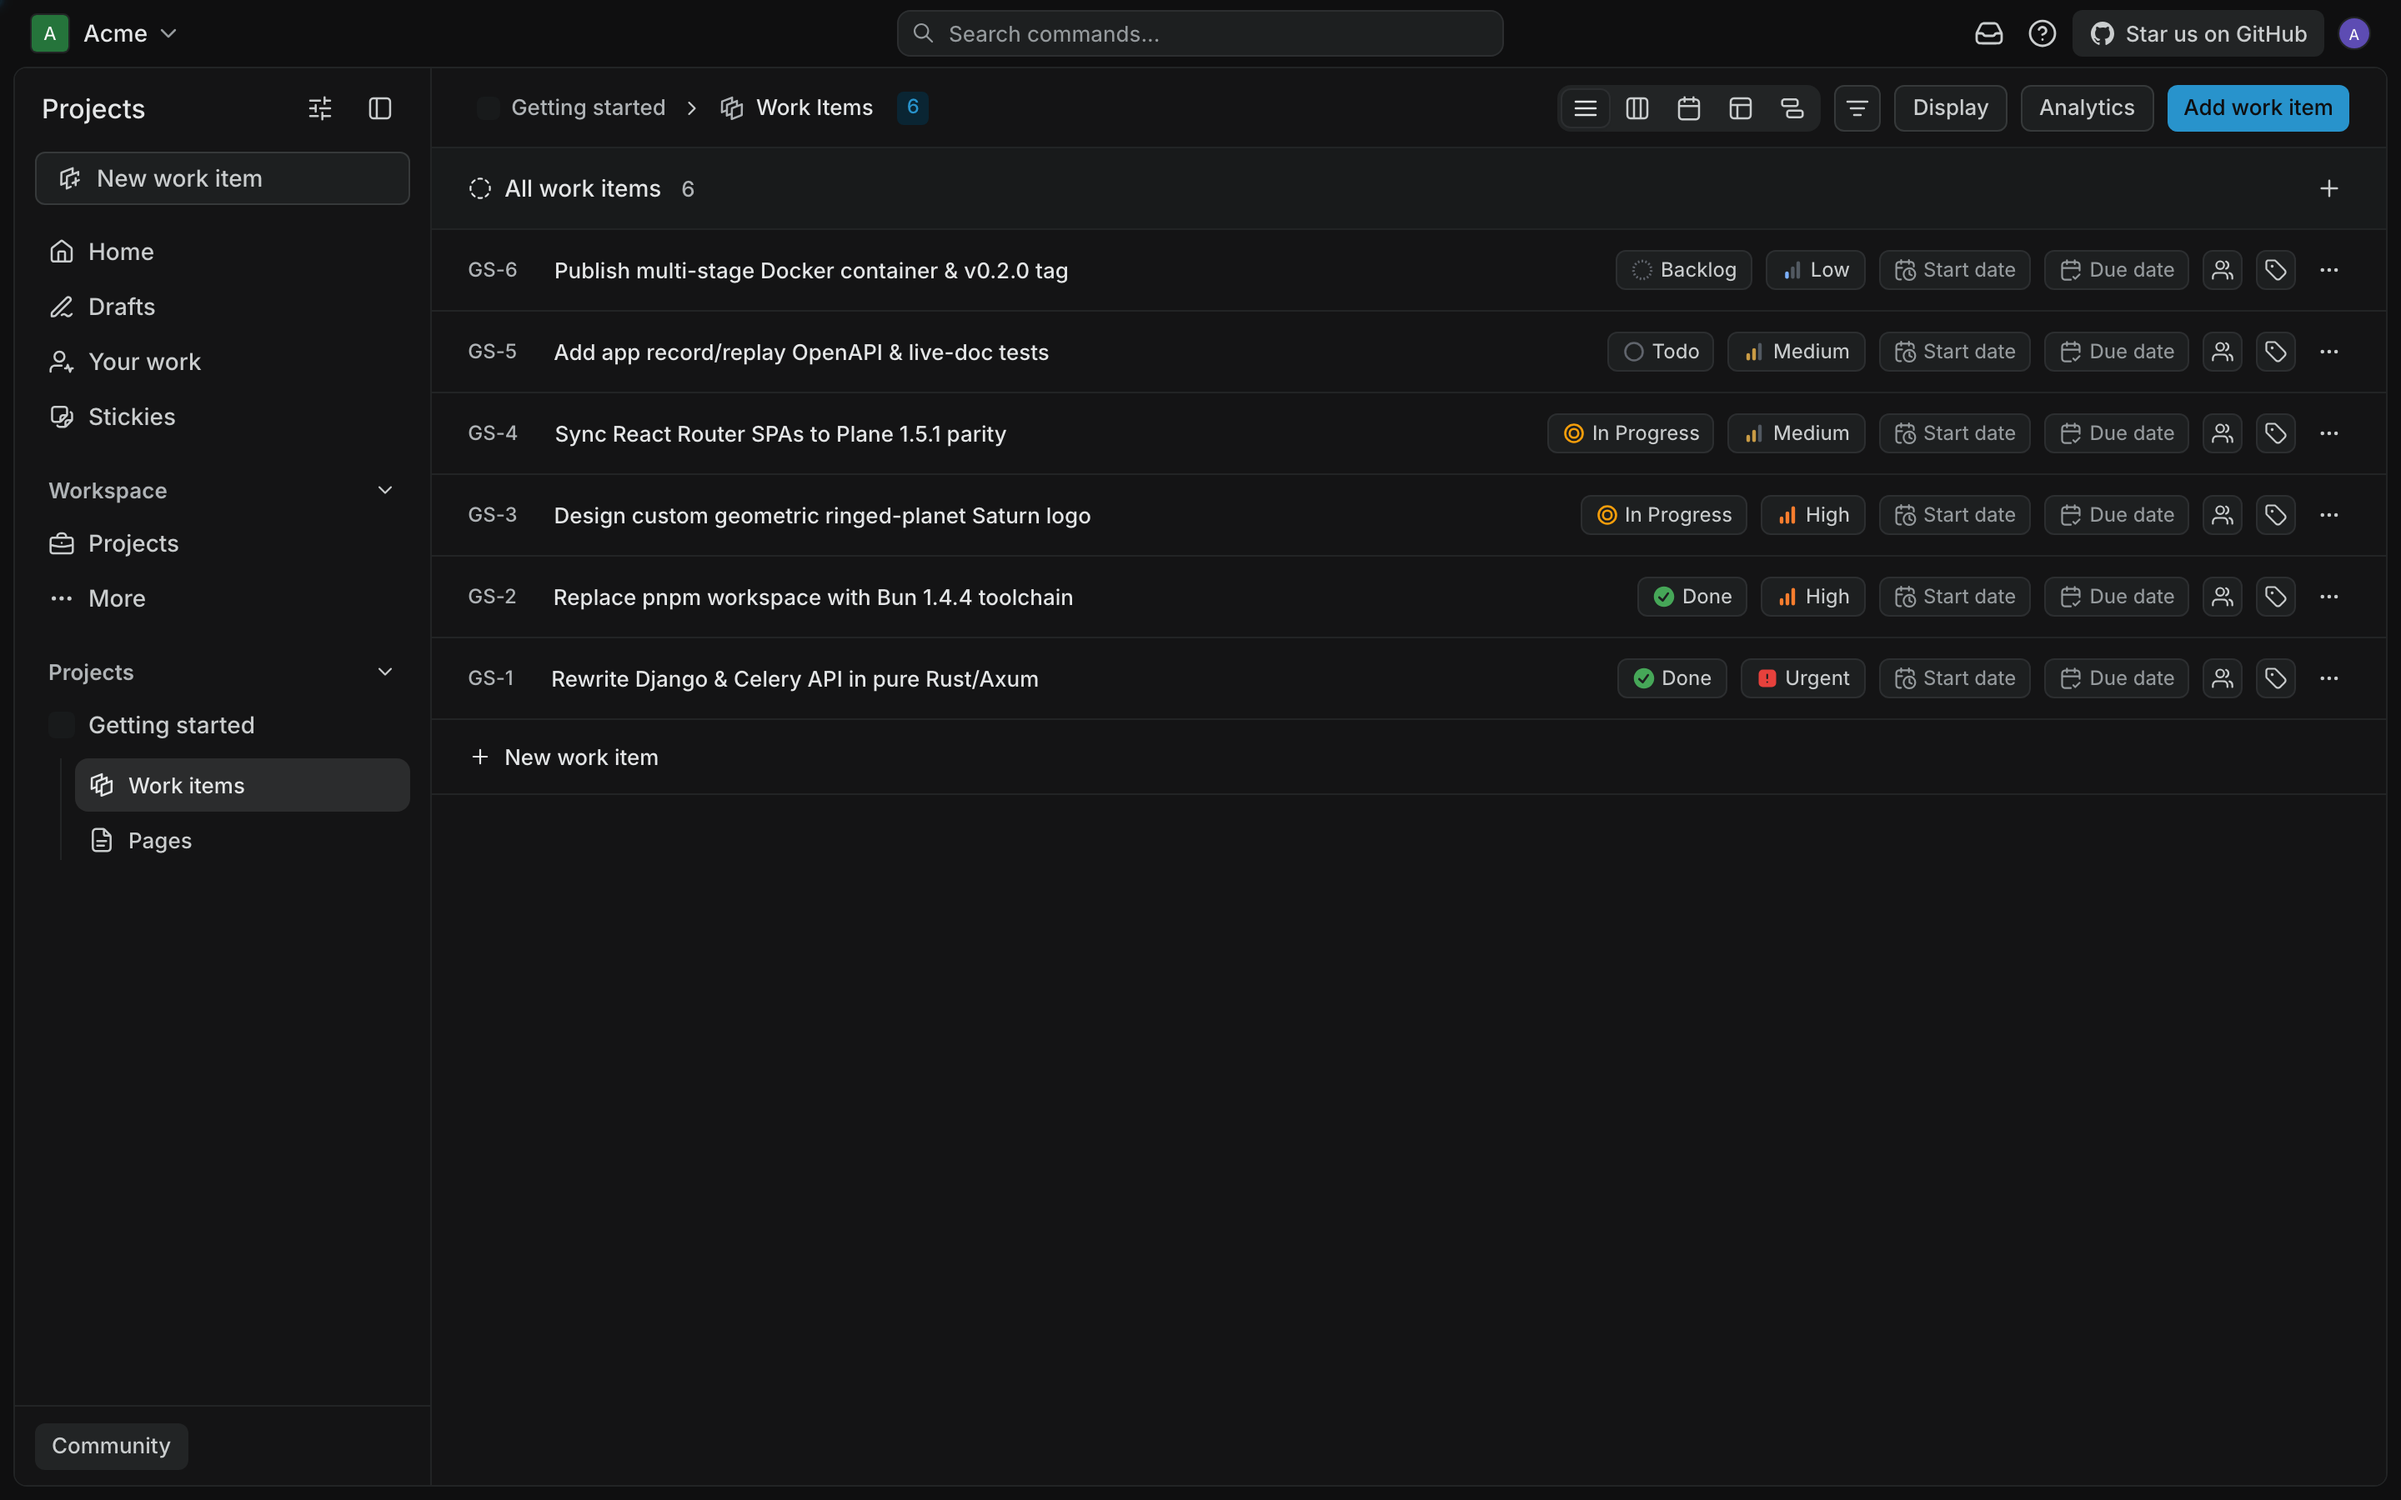
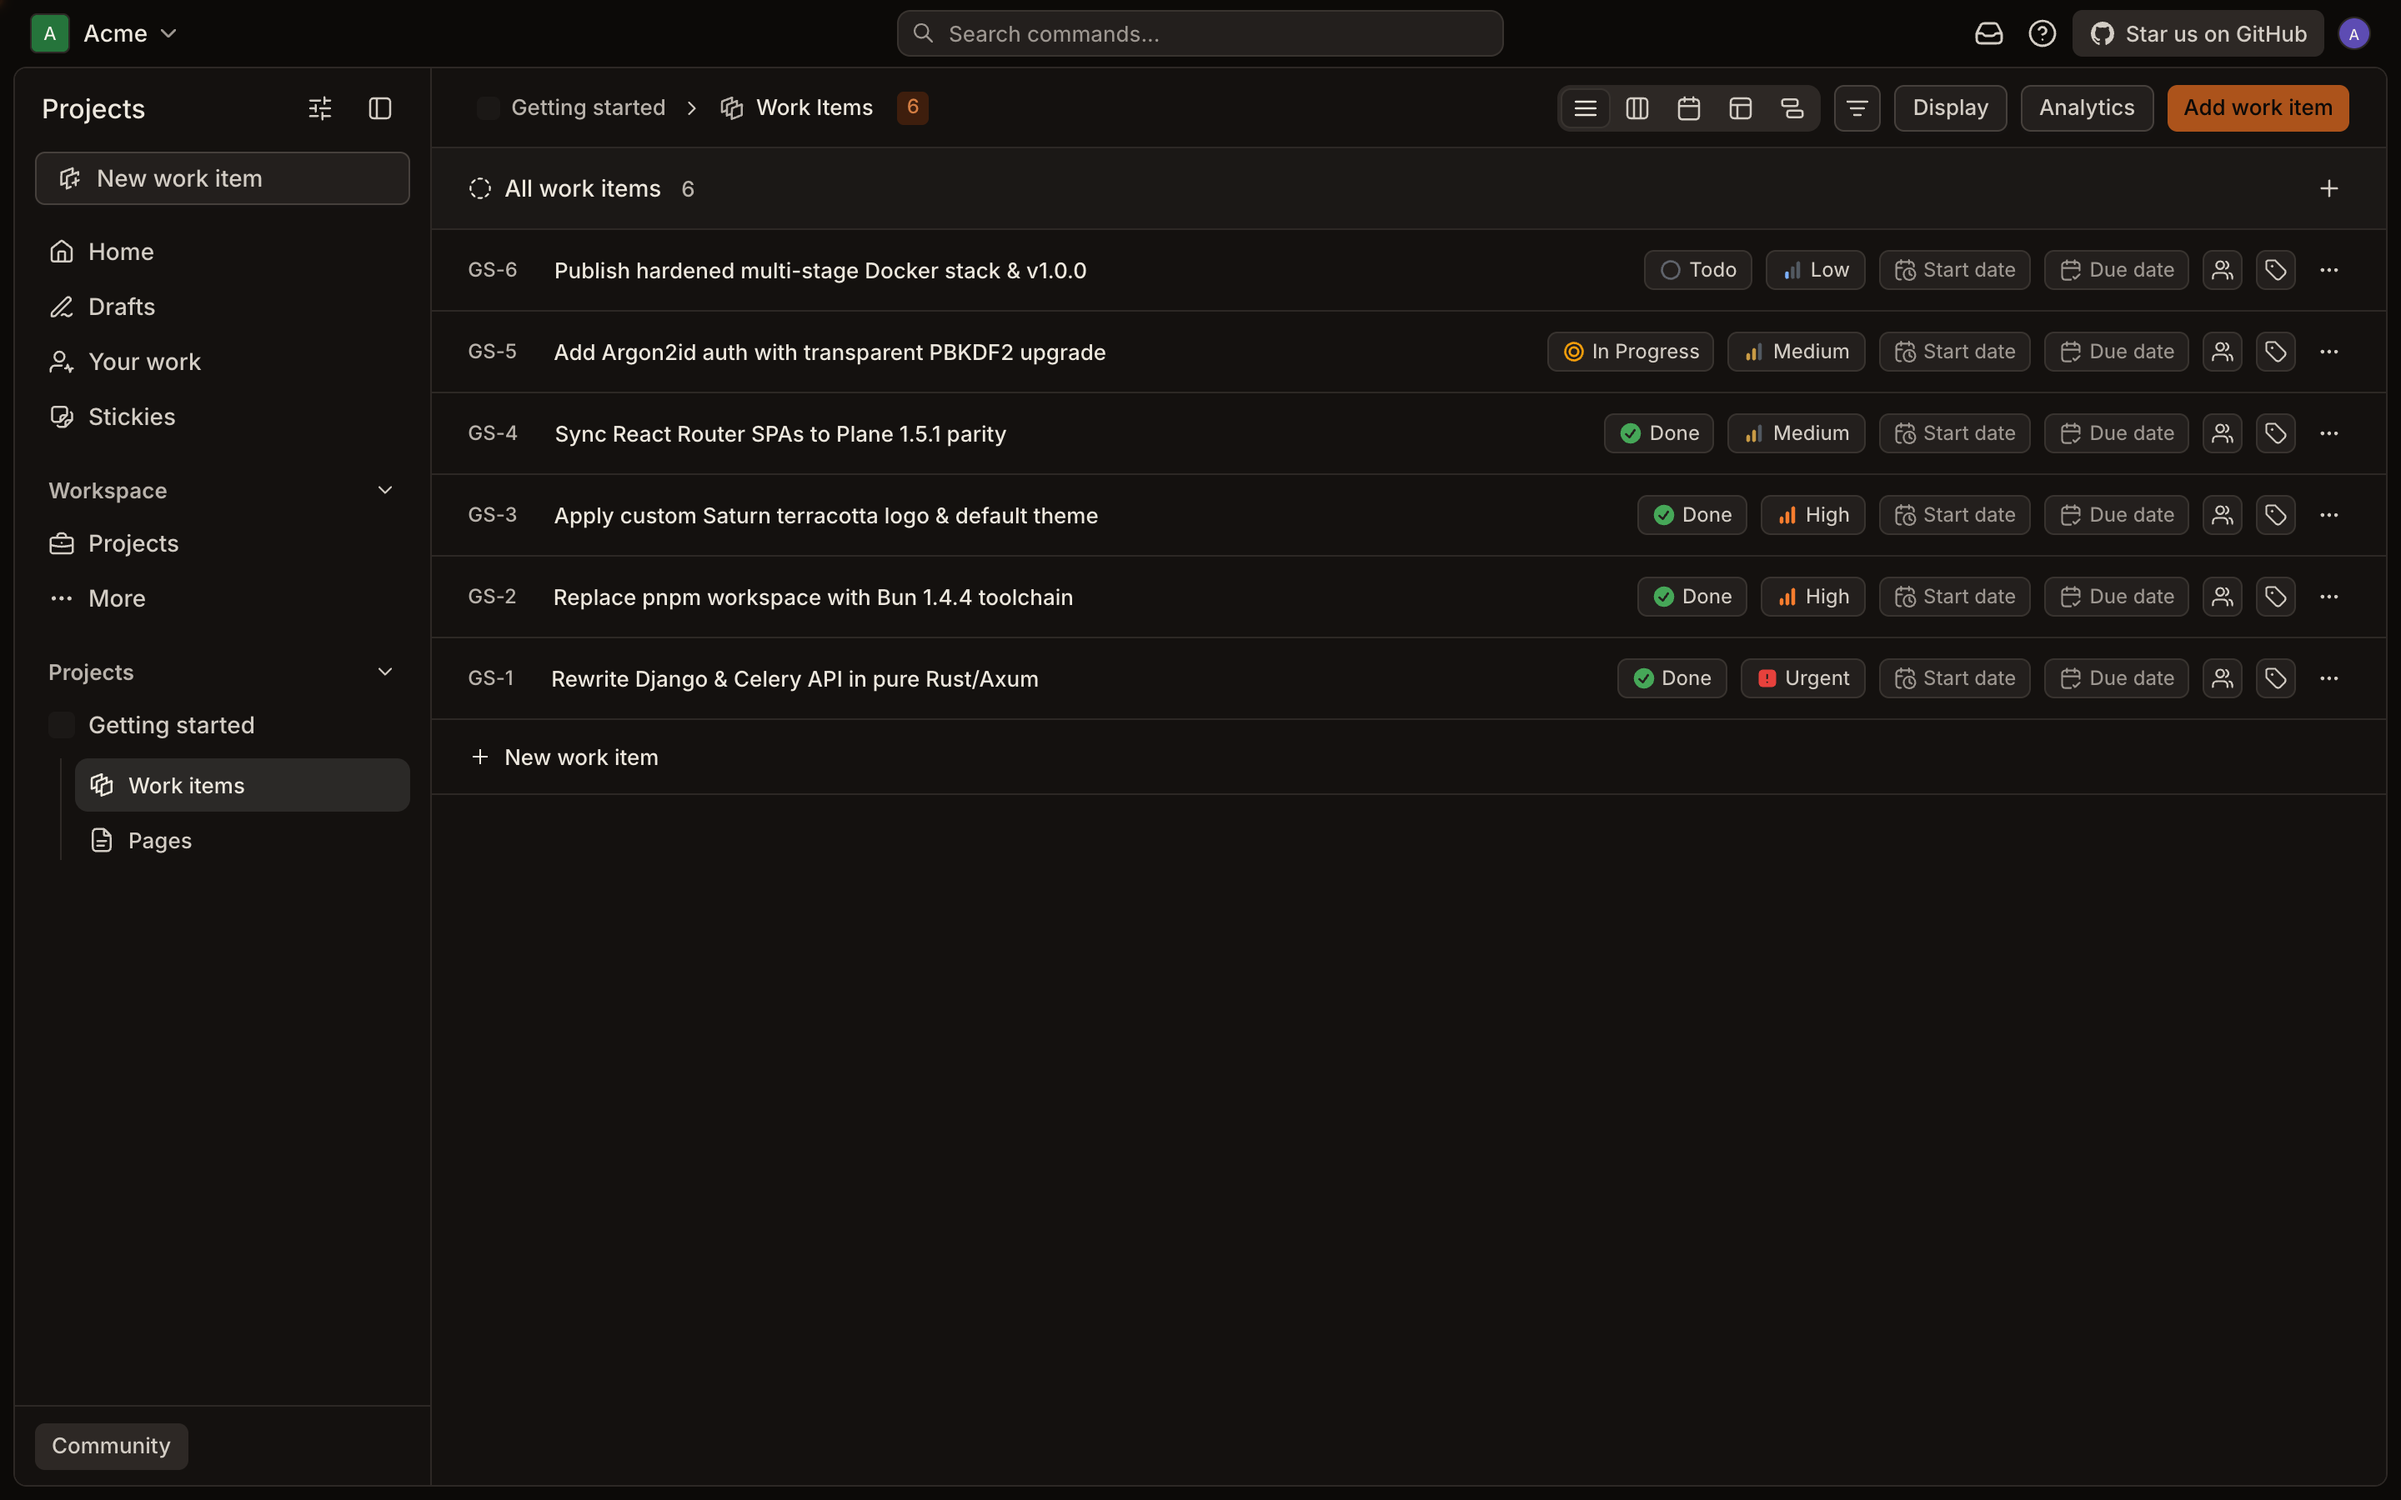
docs(readme): refresh screenshots, demo video, and brand palette

diff --git a/README.md b/README.md
@@ -13,14 +13,14 @@
 [![GitHub Stars](https://img.shields.io/github/stars/aphelion31/saturn?style=flat-square&logo=github)](https://github.com/aphelion31/saturn/stargazers)
 [![GitHub Release](https://img.shields.io/github/v/release/aphelion31/saturn?style=flat-square&logo=github)](https://github.com/aphelion31/saturn/releases/latest)
 [![CI](https://img.shields.io/github/actions/workflow/status/aphelion31/saturn/ci.yml?branch=develop&style=flat-square&logo=githubactions&logoColor=white)](https://github.com/aphelion31/saturn/actions/workflows/ci.yml)
-[![License: AGPL-3.0](https://img.shields.io/badge/License-AGPL--3.0-blue?style=flat-square)](LICENSE)
+[![License: AGPL-3.0](https://img.shields.io/badge/License-AGPL--3.0-C96E32?style=flat-square)](LICENSE)
 
 </div>
 
 <div align="center">
 
-  <a href="https://github.com/aphelion31/saturn/releases/download/readme-assets/saturn-demo.mp4">
-    <img src="https://github.com/aphelion31/saturn/releases/download/readme-assets/saturn-demo.webp" alt="Saturn showcase demonstration" width="900">
+  <a href="https://github.com/aphelion31/saturn/releases/download/readme-assets/saturn-demo-v2.mp4">
+    <img src="https://github.com/aphelion31/saturn/releases/download/readme-assets/saturn-demo-v2.webp" alt="Saturn showcase demonstration" width="900">
   </a>
 
   <p><em>Saturn 12-second overview (click for 1080p MP4)</em></p>
@@ -30,7 +30,7 @@
 > **Note:** Saturn is a Rust rewrite of [Plane](https://github.com/makeplane/plane), the open source project
 > management tool. Plane's Django + Celery + Redis + RabbitMQ + Node backend is replaced by one small Rust binary
 > (`axum` + `sqlx`). Plane's React Router SPAs are synced to `1.5.1` (`preview @ 723bb178f9`), rebranded to
-> **Saturn** with a custom geometric ringed-planet logo, built with **Bun `1.4.4`** (`bun.lock`), and served by
+> **Saturn** with a custom terracotta ringed-planet emblem and warm terracotta/parchment/obsidian default theme, built with **Bun `1.4.4`** (`bun.lock`), and served by
 > the same binary as static files. Saturn keeps Plane's PostgreSQL schema, sessions, password hashes (with
 > Argon2id default + transparent legacy `pbkdf2_sha256` upgrade), and API shapes so an existing Plane database
 > works out of the box.
@@ -172,6 +172,7 @@ docker/       Container builds and reverse proxy config (`axum/Dockerfile`, `ngi
 migrations/   PostgreSQL schema dumped from Plane's Django migrations, plus database defaults
 tools/        API smoke test, E2E check, benchmark
 scripts/      git hook checks, branch helper, Bun frontend build
+assets/       brand logo SVGs, email templates, and workspace seed data
 docs/         architecture, process docs, star chart, and retina UI screenshots (`docs/screenshots/`)
 ```
 

diff --git a/docs/architectures/02.STRUCTURE-PROJECT.md b/docs/architectures/02.STRUCTURE-PROJECT.md
@@ -24,7 +24,11 @@ saturn/
 │   ├── apps/web              main app, React Router SPA
 │   ├── apps/admin            god-mode, React Router SPA, base /god-mode
 │   ├── apps/space            public boards, React Router SPA, base /spaces (SSR turned off)
-│   └── packages/*            shared Plane packages (types, services, editor, ui)
+│   └── packages/*            shared Plane packages (types, services, editor, ui, tailwind-config theme tokens, blocks brand marks)
+├── assets/
+│   ├── brand/                Saturn logo SVGs (`saturn-mark.svg`, `saturn-mark-dark.svg`)
+│   ├── email/                transactional email templates (`project_addition.html`)
+│   └── seeds/                workspace seed JSON fixtures
 ├── docker/
 │   ├── axum/Dockerfile       multi-stage Bun SPA + Rust runtime image
 │   └── nginx/                non-root Alpine reverse proxy (`Dockerfile`, `nginx.conf`)
